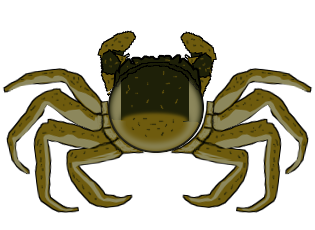
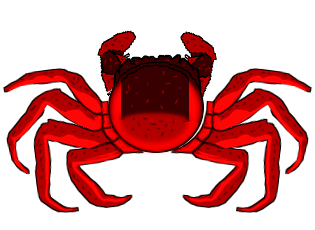
Crabs fixed

diff --git a/src/cisc275/game/view/CrabView.java b/src/cisc275/game/view/CrabView.java
@@ -11,12 +11,12 @@ public class CrabView extends InstanceView{
 //	boolean stop = false; //model
 //	boolean mitten; //model
 	static int nativelimit; //model (game)
-	static Image ing; //view
-	static int picNum = 1; //view
+	ImageIcon ing; //view
+	int picNum = 1; //view
     int picNums; //view
     static boolean side = true;
     final int frameCount = 8; //view
-    static Image[] pics; //view
+    static ImageIcon[] pics; //view
 //    int xloc = 0; //model
 //    int yloc = 0; //model
     //both model and view. Controller will need to translate between the two. 
@@ -40,10 +40,27 @@ public class CrabView extends InstanceView{
 //    boolean left = false; //model
 //    boolean right = true; //model
     JLabel cbutton = new JLabel("test");
-
+    Crab crabholder;
     Image current;
+    boolean removel;
 	public PlantView planta;
-	
+	CrabView(Crab crabh){
+		crabholder = crabh;
+		JLabel crablabel = new JLabel();
+		 crablabel.setSize(scaledimgWidth, scaledimgHeight);
+		crablabel.addMouseListener(new MouseAdapter()  
+		{  
+		    public void mouseClicked(MouseEvent e)  
+		    {  
+		       // you can open a new frame here as
+		       // i have assumed you have declared "frame" as instance variable
+		    	//JOptionPane.showMessageDialog(null, "You Win");
+		    	crabholder.removel = true;
+		    	
+		    }  
+		});
+		cbutton = crablabel;
+	}
 	
 //    /**
 //     * Move to model
@@ -76,11 +93,11 @@ public class CrabView extends InstanceView{
      * Determines the image that should be drawn to create animation
      * @param index 
      */
-    public static void paintcrab(Crab crab, int index) {
-    	System.out.println("CRAB: "+crab.isMitten()+" "+index);
+    public void paintcrab() {
+    	System.out.println(crabholder+" CRAB: "+crabholder.mitten);
     	if(picNum == 1 || picNum == 2){
     		picNum++;
-    		if(crab.isMitten()==true){
+    		if(crabholder.mitten==true){
     			ing = pics[0];
     		}
     		else{
@@ -89,7 +106,7 @@ public class CrabView extends InstanceView{
     	}
     	else if(picNum == 3){
     		picNum++;
-    		if(crab.isMitten()==true){
+    		if(crabholder.mitten==true){
     			ing = pics[1];
     		}
     		else{
@@ -138,32 +155,23 @@ public class CrabView extends InstanceView{
 //    	}
     	//this stays in view
     	System.out.println("testing"+picNum);
-    	SplashScreen.crabss.get(index).setIcon(new ImageIcon(ing.getScaledInstance(scaledimgWidth, scaledimgHeight, Image.SCALE_DEFAULT)));
-         SplashScreen.crabss.get(index).setLocation(ViewTemplate.scalex(crab.getXloc()), ViewTemplate.scaley(crab.getYloc()));
+    	cbutton.setIcon(ing);
+         cbutton.setLocation(ViewTemplate.scalex(crabholder.getXloc()), ViewTemplate.scaley(crabholder.getYloc()));
     }
     public static void InitializePicturesC() {
-		pics = new BufferedImage[4];
-   		pics[0] = createImage("images/crabby.png");
-		pics[1] = createImage("images/crab1.png");
-		pics[2] = createImage("images/crab3.png");
-		pics[3] = createImage("images/crab4.png");
+		BufferedImage[] picss = new BufferedImage[4];
+   		picss[0] = createImage("images/Mcrab1.png");
+		picss[1] = createImage("images/Mcrab2.png");
+		picss[2] = createImage("images/crab1.png");
+		picss[3] = createImage("images/crab2.png");
+		pics = new ImageIcon[4];
+		pics[0] = new ImageIcon(picss[0].getScaledInstance(scaledimgWidth, scaledimgHeight, Image.SCALE_DEFAULT));
+		pics[1] = new ImageIcon(picss[1].getScaledInstance(scaledimgWidth, scaledimgHeight, Image.SCALE_DEFAULT));
+		pics[2] = new ImageIcon(picss[2].getScaledInstance(scaledimgWidth, scaledimgHeight, Image.SCALE_DEFAULT));
+		pics[3] = new ImageIcon(picss[3].getScaledInstance(scaledimgWidth, scaledimgHeight, Image.SCALE_DEFAULT));
 	}
- static JLabel createlabel(int index){
-	 JLabel crablabel = new JLabel();
-	 crablabel.setSize(scaledimgWidth, scaledimgHeight);
-	crablabel.addMouseListener(new MouseAdapter()  
-	{  
-	    public void mouseClicked(MouseEvent e)  
-	    {  
-	       // you can open a new frame here as
-	       // i have assumed you have declared "frame" as instance variable
-	    	//JOptionPane.showMessageDialog(null, "You Win");
-	    	SplashScreen.crabs.get(index).removel = true;
-	    }  
-	});
-	return crablabel; 
-}
- 
+
+
 	 /**
 	 * Handles direction change during collision with plant. Should be moved to model.
 	 */

diff --git a/src/cisc275/game/view/SplashScreen.java b/src/cisc275/game/view/SplashScreen.java
@@ -43,7 +43,7 @@ public class SplashScreen extends ViewTemplate implements ActionListener, MouseL
 	int deletenumWater = -1; // with water
 	int deletenumFM = -1; // with fisherman
 	static ArrayList<Crab> crabs = new ArrayList<Crab>();//array of crabviews
-	static ArrayList<JLabel> crabss = new ArrayList<JLabel>();
+	static ArrayList<CrabView> crabss = new ArrayList<CrabView>();
 	static ArrayList<PlantView> plants = new ArrayList<PlantView>();
 	static ArrayList<Water> waterTiles = new ArrayList<Water>();
 	static ArrayList<Fisherman> fms = new ArrayList<Fisherman>();
@@ -388,13 +388,11 @@ public class SplashScreen extends ViewTemplate implements ActionListener, MouseL
 //             	   frame.remove(c.cbutton);
 //            	}
                 if(rando() == 1 && crabcount < 50){ //randomly makes a crab (1/50 chance)
-            		Crab temp = new Crab();
-                	crabs.add(temp);
-            		int i = crabs.indexOf(temp);
-            		crabss.add(CrabView.createlabel(i));
+                	crabs.add(new Crab(crabs.size()));
+                	int index = crabs.size()-1;
+            		crabss.add(new CrabView(crabs.get(index)));
             		crabcount += 1;
-            		CrabView.paintcrab(crabs.get(i), i);
-            		panel2.add(crabss.get(i));
+            		panel2.add(crabss.get(index).cbutton);
             		System.out.println("CRAB CREATED: " + crabcount);
             		}
                 timer +=1;
@@ -425,9 +423,9 @@ public class SplashScreen extends ViewTemplate implements ActionListener, MouseL
     		}
     		c.move();
     		System.out.println("CRAB INDEX " + index);
-    		CrabView.paintcrab(c, index);
-    		getPanel2().remove(crabss.get(index));
-    		getPanel2().add(crabss.get(index));
+    		crabss.get(index).paintcrab();
+    		getPanel2().remove(crabss.get(index).cbutton);
+    		getPanel2().add(crabss.get(index).cbutton);
     		getPanel2().repaint();
     		index++;
     	}
@@ -440,7 +438,7 @@ public class SplashScreen extends ViewTemplate implements ActionListener, MouseL
     				fms.get(0).setMoney(fms.get(0).getMoney() + 10);
     			}
     		}
-    		getPanel2().remove(crabss.get(deletenum));
+    		getPanel2().remove(crabss.get(deletenum).cbutton);
     		System.out.println("poop");
     		crabss.remove(deletenum);
     		crabs.remove(deletenum);
@@ -517,7 +515,7 @@ public class SplashScreen extends ViewTemplate implements ActionListener, MouseL
 			int index= 0;
 			for(Crab c:crabs){
 				if(c.planta == null){
-					if(p.checkintersects(crabss.get(index))){
+					if(p.checkintersects(crabss.get(index).cbutton)){
 						if(c.isMitten() & !p.buffer){
 						c.setStop(true);
 						c.planta = p;
@@ -534,6 +532,7 @@ public class SplashScreen extends ViewTemplate implements ActionListener, MouseL
 				else if(c.planta == p){
 					p.intersecting = true;
 				}
+				index++;
 			}
 			if(!p.intersecting & !p.buffer){
 				p.changepic(1);

diff --git a/src/cisc275/game/model/Crab.java b/src/cisc275/game/model/Crab.java
@@ -19,7 +19,7 @@ public class Crab extends RandomMover implements java.io.Serializable{
 	 */
 	private static final long serialVersionUID = 9084334807467140813L;
 	static int mittencount; 
-	boolean mitten;
+	public boolean mitten;
 	boolean stop = false;
 	int xloc = 7; //model
 	int yloc = 7; //model
@@ -39,13 +39,15 @@ public class Crab extends RandomMover implements java.io.Serializable{
     public PlantView planta; //will be changed to plant
 //	private Image image;
 //	private JButton cbutton;
+	public int index;
 	
 	
 	/**
 	 * Constructor for crab. Uses rando to determine location and whether or not it's a 
 	 * mitten crab
 	 */
-	public Crab() {
+	public Crab(int num) {
+		index = num;
 		if(rando(5)== 1){
     		mitten = false;
     	}

diff --git a/src/cisc275/game/view/GameView.java b/src/cisc275/game/view/GameView.java
@@ -203,8 +203,9 @@ public class GameView extends ViewTemplate implements GameListener<Game>, Runnab
 	public void onEvent(String event, Game game) {
 		// TODO Auto-generated method stub		
 	}
-
+	
 	public static void main(String[] args) { //move to view, windows are central thread of game
+		
 		SwingUtilities.invokeLater(new Runnable(){
 			@Override
 			public void run() {
